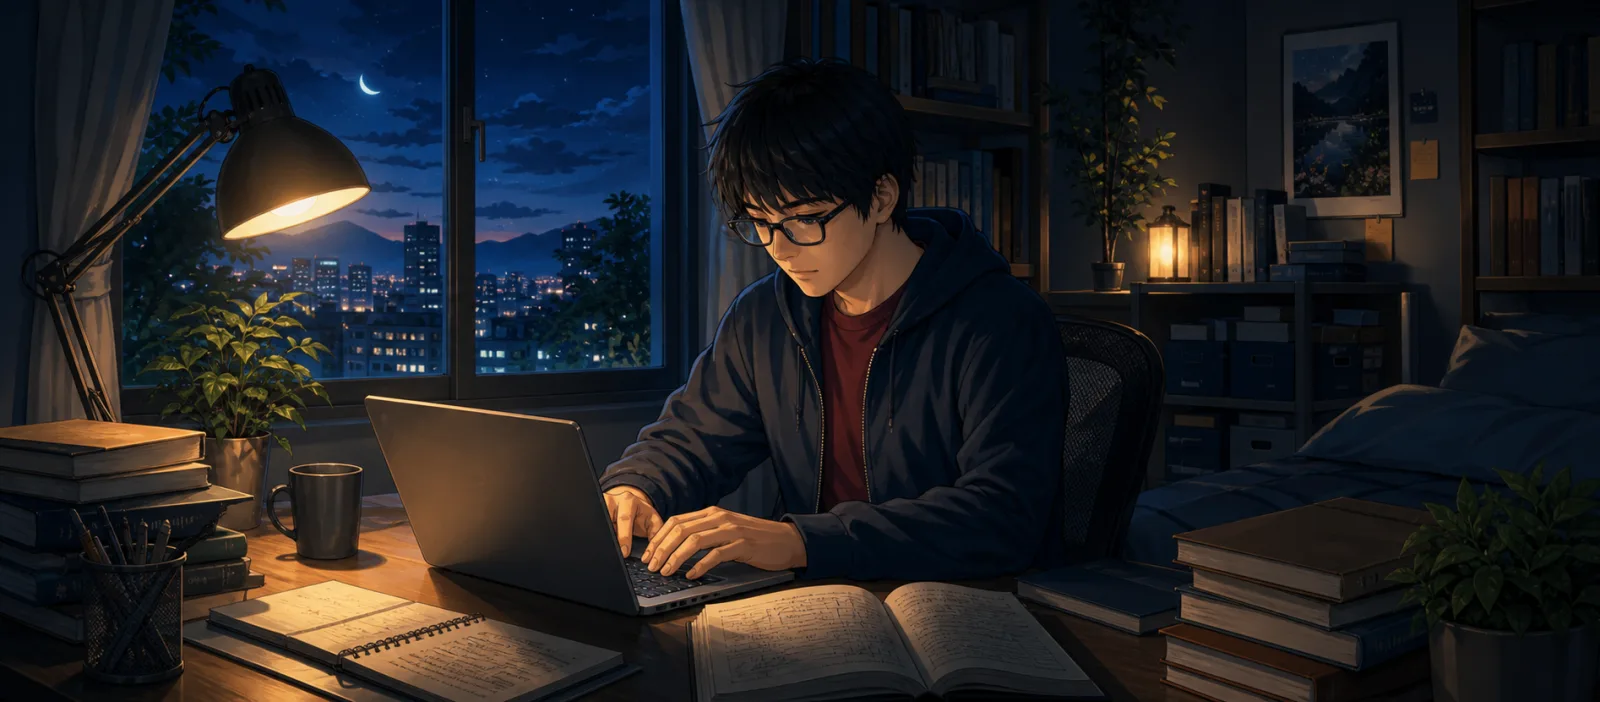
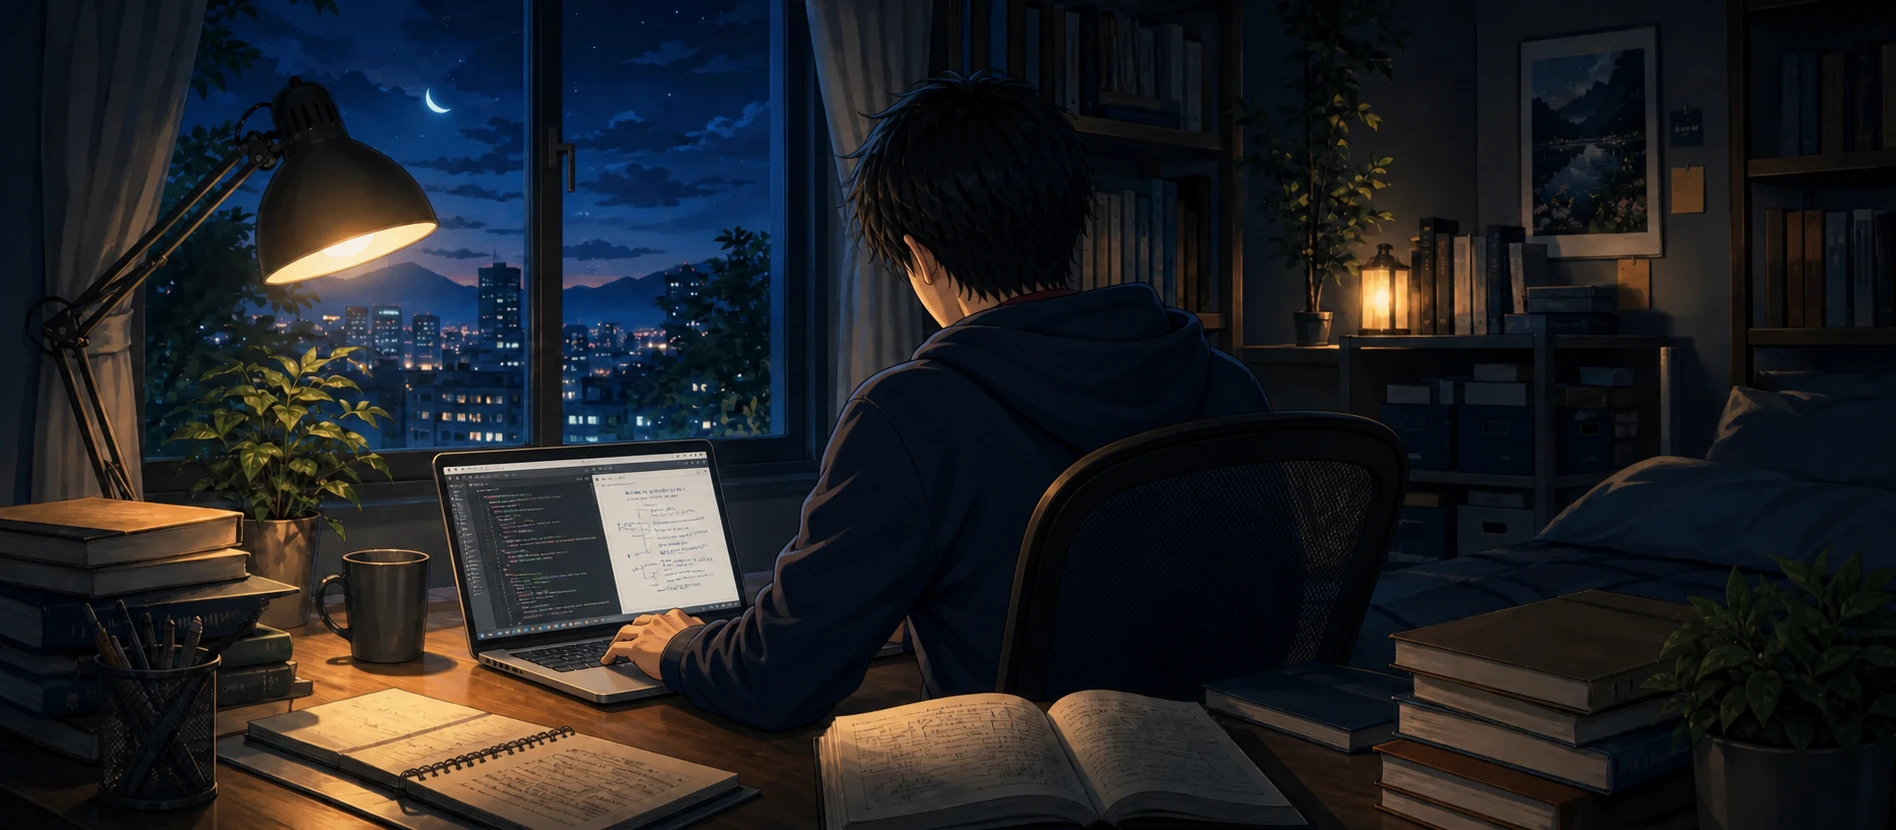
Update hero images

diff --git a/src/pages/StudyPlans.tsx b/src/pages/StudyPlans.tsx
@@ -1139,7 +1139,7 @@ function StudyHeroScene() {
   return (
     <HeroScene
       src={studyHeroImage}
-      alt="Anime-style LLM systems study scene with GPU kernels, attention tiles, and runtime diagrams"
+      alt="Anime-style nighttime study scene with a back-facing person working on a laptop"
       variant="study"
     />
   );